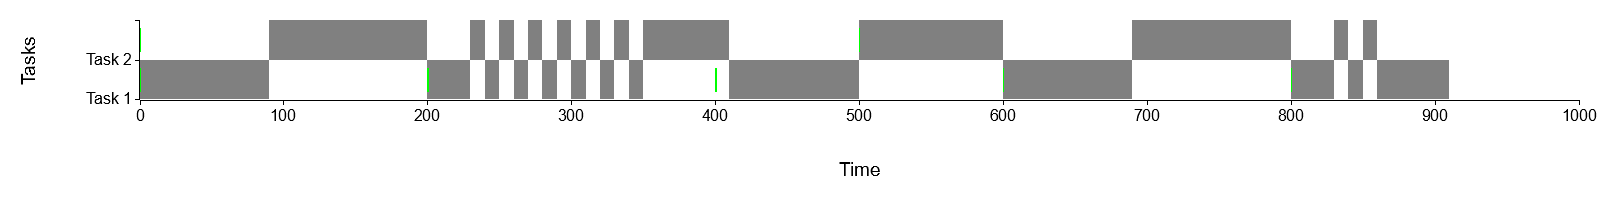
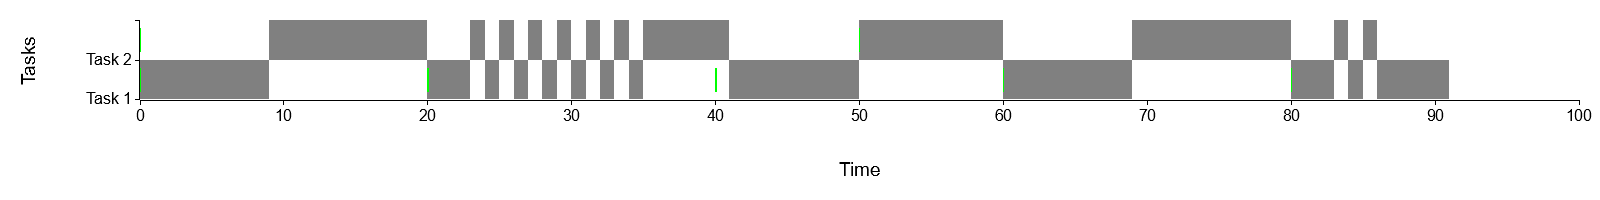
Update Scheduler README.md and utils.rs

diff --git a/Scheduler/src/utils.rs b/Scheduler/src/utils.rs
@@ -202,6 +202,7 @@ pub fn generate_gantt_chart(
                 }
             })
         )
+        .x_label_formatter(&(|x| format!("{}", x / 10)))
         .label_style(("sans-serif", 20))
         .axis_desc_style(("sans-serif", 24))
         .draw()?;

diff --git a/Scheduler/README.md b/Scheduler/README.md
@@ -11,7 +11,7 @@
 2, 3, 2, 1
 ```
 
-### outputs/{SchedulerName}
+### outputs/{SchedulerName}/
 用 SchedulerName 分資料夾，txt 與 JSON 內容若為 `無法排程任務` 與 `[]` 則為無法排程，並且不會有圖片輸出。
 - **TXT** : 每一個clock的執行任務輸出
 - **JSON** : 包含 Dead 和 Arrival 時間點
